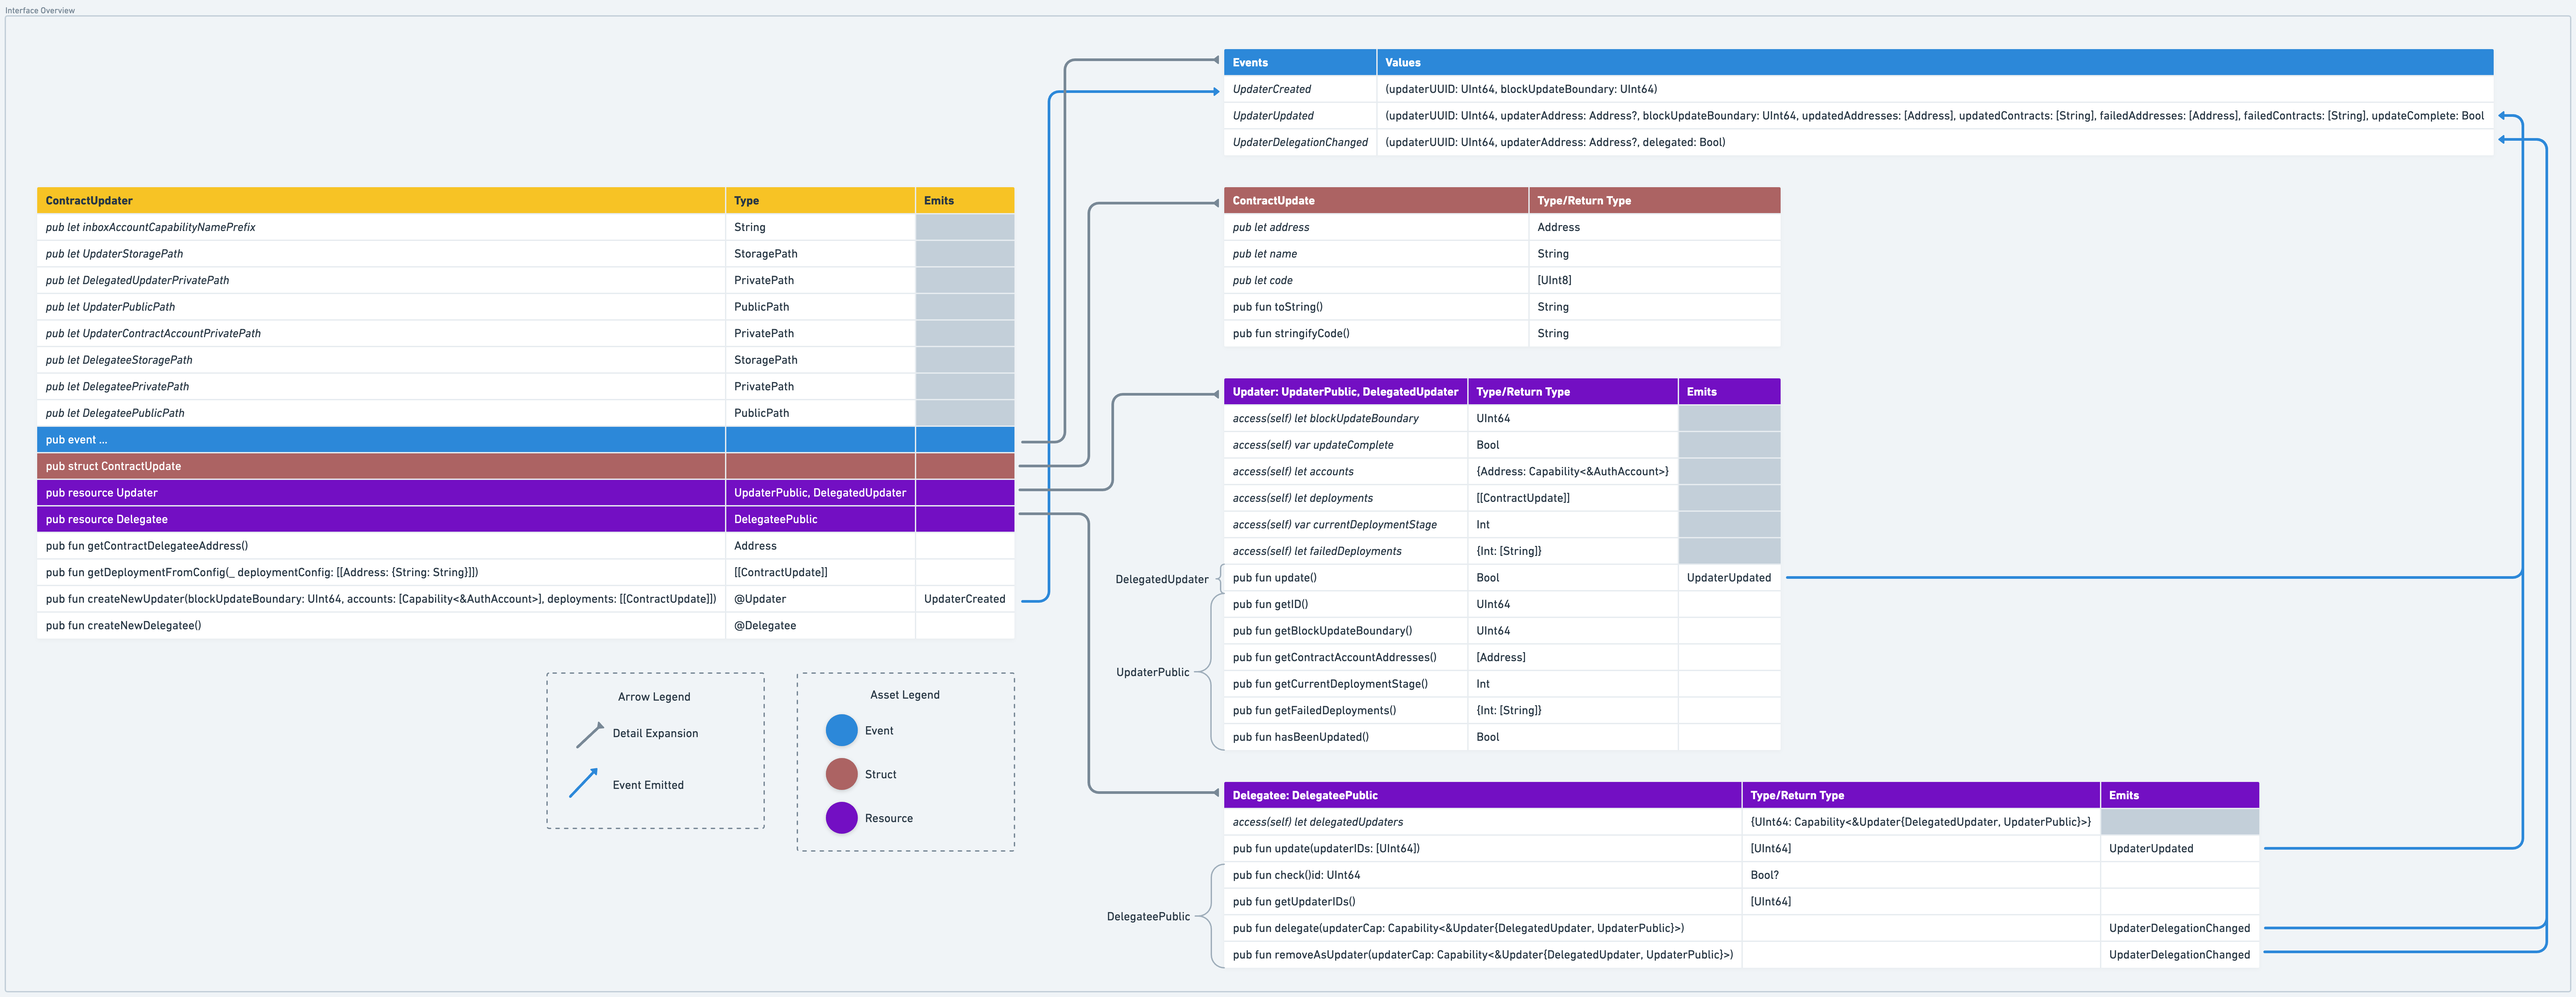
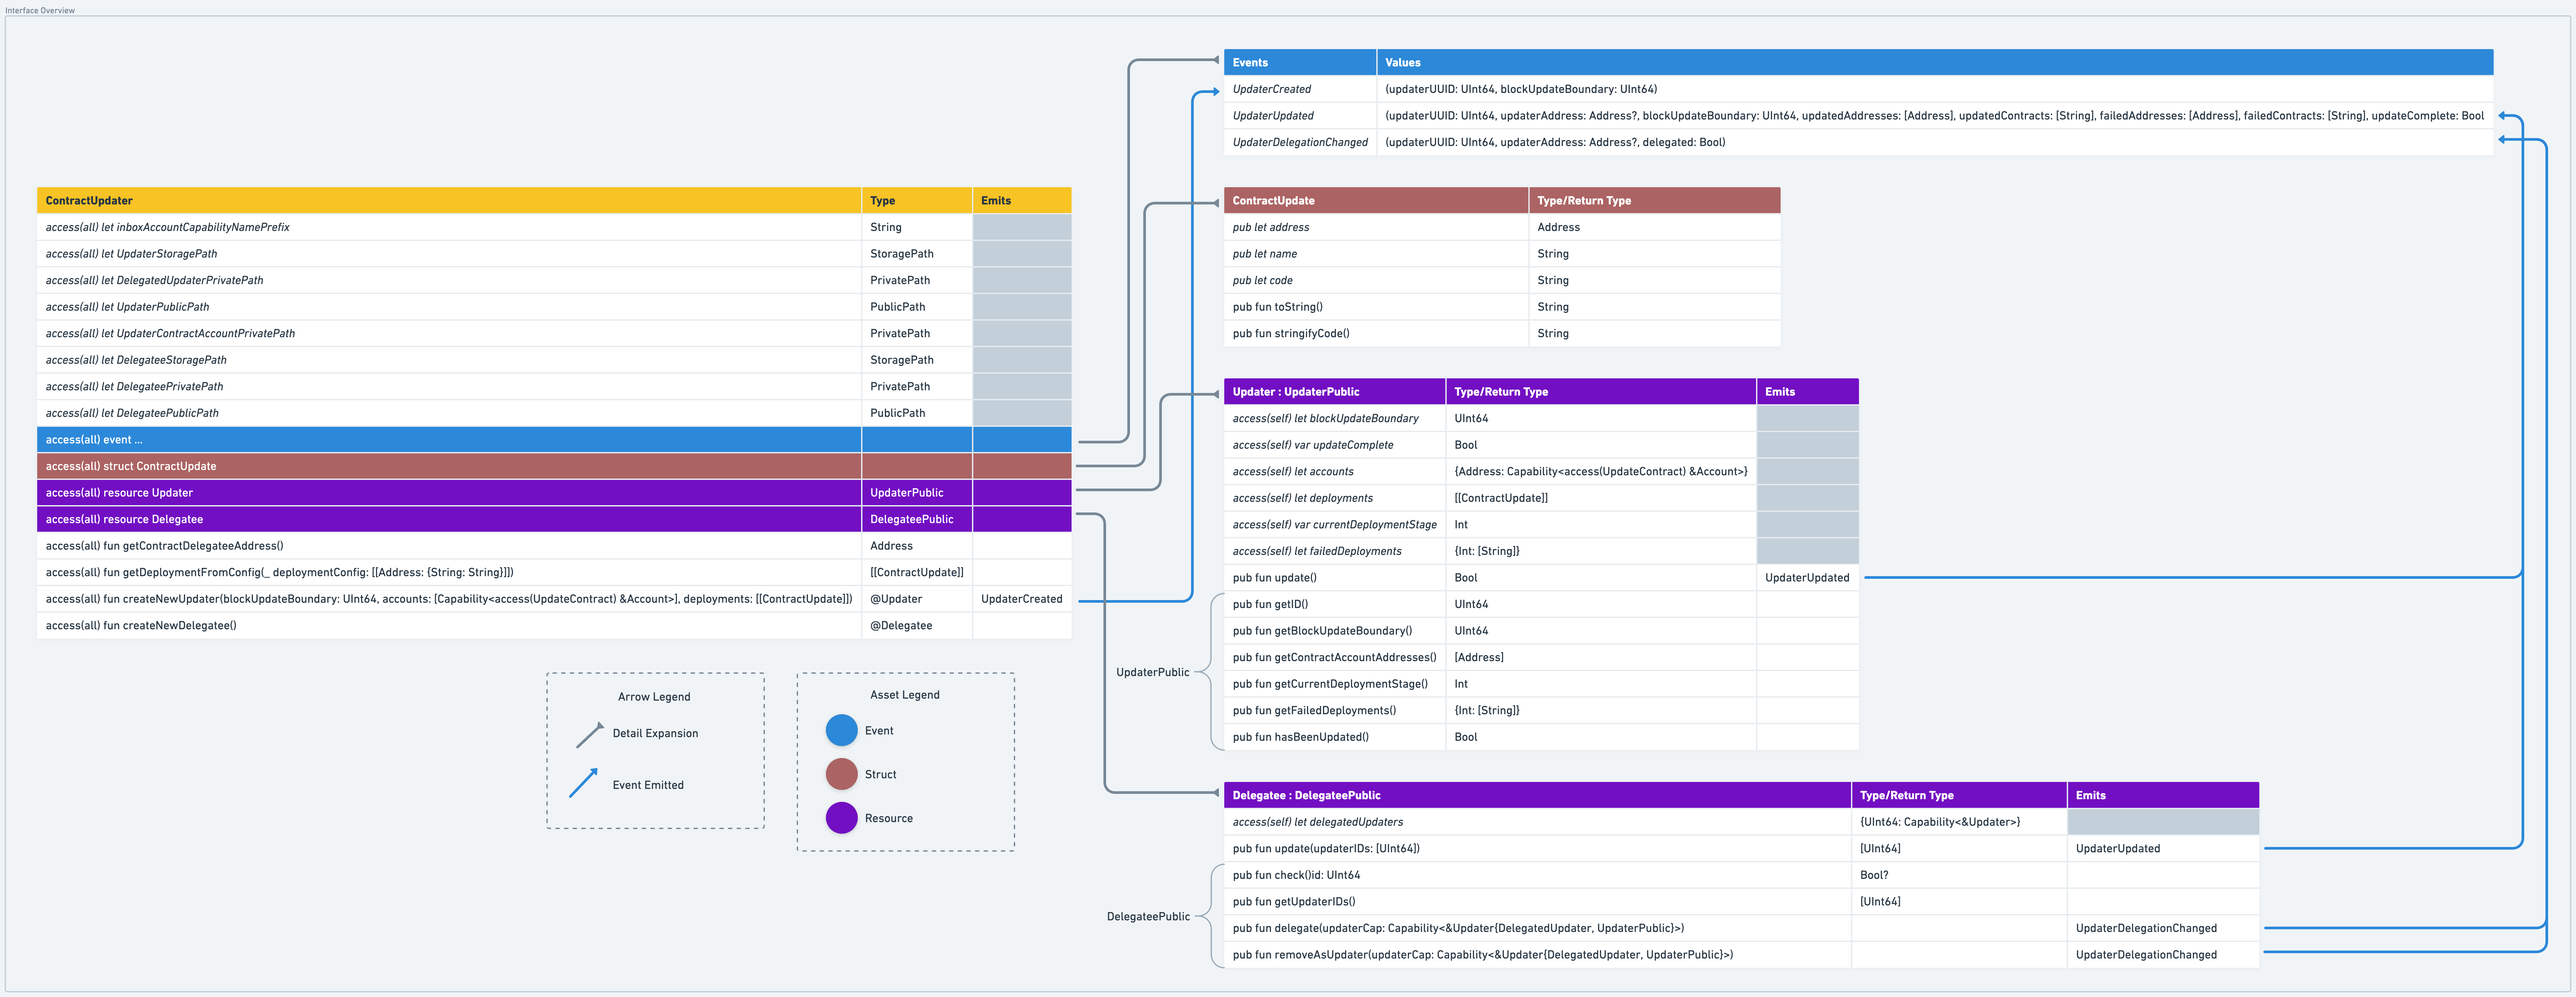
update 20230809-staged-contract-updates.md interfaces

diff --git a/application/20230809-staged-contract-updates.md b/application/20230809-staged-contract-updates.md
@@ -3,7 +3,7 @@ status: proposed
 flip: [179](https://github.com/onflow/flips/pull/179)
 authors: Giovanni Sanchez (giovanni.sanchez@dapperlabs.com)
 sponsor: Giovanni Sanchez (giovanni.sanchez@dapperlabs.com)
-updated: 2023-08-31
+updated: 2023-09-26
 ---
 
 # FLIP 179: Staged Contract Update Mechanism
@@ -104,12 +104,12 @@ below to view each component in more detail.*
 ```cadence
 /// Representative of a single contract, its name, code and where it will be deployed
 ///
-pub struct ContractUpdate {
-    pub let address: Address
-    pub let name: String
-    pub let code: String
-    pub fun toString(): String
-    pub fun stringifyCode(): String
+access(all) struct ContractUpdate {
+    access(all) let address: Address
+    access(all) let name: String
+    access(all) let code: String
+    access(all) fun toString(): String
+    access(all) fun codeAsCadence(): String
 }
 ```
 </details>
@@ -118,34 +118,28 @@ pub struct ContractUpdate {
 <summary>resource Updater</summary>
 
 ```cadence
-/// Private Capability enabling delegated updates
-///
-pub resource interface DelegatedUpdater {
-    pub fun update(): Bool
-}
-
 /// Public interface enabling queries about the Updater
 ///
-pub resource interface UpdaterPublic {
-    pub fun getID(): UInt64
-    pub fun getBlockUpdateBoundary(): UInt64
-    pub fun getContractAccountAddresses(): [Address]
-    pub fun getDeployments(): [[ContractUpdate]]
-    pub fun getCurrentDeploymentStage(): Int
-    pub fun getFailedDeployments(): {Int: [String]}
-    pub fun hasBeenUpdated(): Bool
+access(all) resource interface UpdaterPublic {
+    access(all) fun getID(): UInt64
+    access(all) fun getBlockUpdateBoundary(): UInt64
+    access(all) fun getContractAccountAddresses(): [Address]
+    access(all) fun getDeployments(): [[ContractUpdate]]
+    access(all) fun getCurrentDeploymentStage(): Int
+    access(all) fun getFailedDeployments(): {Int: [String]}
+    access(all) fun hasBeenUpdated(): Bool
 }
 
 /// Resource that enables delayed contract updates to wrapped accounts at or beyond a specified block height
 ///
-pub resource Updater : UpdaterPublic, DelegatedUpdater {
+access(all) resource Updater : UpdaterPublic {
     /// Update to occur at or beyond this block height
     // TODO: Consider making this a contract-owned value as it's reflective of the spork height
     access(self) let blockUpdateBoundary: UInt64
     /// Update status for each contract
     access(self) var updateComplete: Bool
     /// Capabilities for contract hosting accounts
-    access(self) let accounts: {Address: Capability<&AuthAccount>}
+    access(self) let accounts: {Address: Capability<auth(UpdateContract) &Account>}
     /// Updates ordered by their deployment sequence and staged by their dependency depth
     /// NOTE: Dev should be careful to validate their dependencies such that updates are performed from root
     /// to leaf dependencies
@@ -158,17 +152,17 @@ pub resource Updater : UpdaterPublic, DelegatedUpdater {
     /// Executes the next update stage for all contracts defined in deployment, returning true if all stages have
     /// been attempted and false if stages remain
     ///
-    pub fun update(): Bool
+    access(all) fun update(): Bool
 
     /* --- Public getters --- */
     //
-    pub fun getID(): UInt64
-    pub fun getBlockUpdateBoundary(): UInt64
-    pub fun getContractAccountAddresses(): [Address]
-    pub fun getDeployments(): [[ContractUpdate]]
-    pub fun getCurrentDeploymentStage(): Int
-    pub fun getFailedDeployments(): {Int: [String]}
-    pub fun hasBeenUpdated(): Bool
+    access(all) fun getID(): UInt64
+    access(all) fun getBlockUpdateBoundary(): UInt64
+    access(all) fun getContractAccountAddresses(): [Address]
+    access(all) fun getDeployments(): [[ContractUpdate]]
+    access(all) fun getCurrentDeploymentStage(): Int
+    access(all) fun getFailedDeployments(): {Int: [String]}
+    access(all) fun hasBeenUpdated(): Bool
 }
 ```
 </details>
@@ -180,39 +174,39 @@ pub resource Updater : UpdaterPublic, DelegatedUpdater {
 ```cadence
 /// Public interface for Delegatee
 ///
-pub resource interface DelegateePublic {
-    pub fun check(id: UInt64): Bool?
-    pub fun getUpdaterIDs(): [UInt64]
-    pub fun delegate(updaterCap: Capability<&Updater{DelegatedUpdater, UpdaterPublic}>)
-    pub fun removeAsUpdater(updaterCap: Capability<&Updater{DelegatedUpdater, UpdaterPublic}>)
+access(all) resource interface DelegateePublic {
+    access(all) fun check(id: UInt64): Bool?
+    access(all) fun getUpdaterIDs(): [UInt64]
+    access(all) fun delegate(updaterCap: Capability<&Updater>)
+    access(all) fun removeAsUpdater(updaterCap: Capability<&Updater>)
 }
 
 /// Resource that executed delegated updates
 ///
-pub resource Delegatee : DelegateePublic {
+access(all) resource Delegatee : DelegateePublic {
     // TODO: Block Height - All DelegatedUpdaters must be updated at or beyond this block height
     // access(self) let blockUpdateBoundary: UInt64
     /// Track all delegated updaters
-    access(self) let delegatedUpdaters: {UInt64: Capability<&Updater{DelegatedUpdater, UpdaterPublic}>}
+    access(self) let delegatedUpdaters: {UInt64: Capability<&Updater>}
 
     /// Checks if the specified DelegatedUpdater Capability is contained and valid
     ///
-    pub fun check(id: UInt64): Bool?
+    access(all) fun check(id: UInt64): Bool?
     /// Returns the IDs of the delegated updaters 
     ///
-    pub fun getUpdaterIDs(): [UInt64]
+    access(all) fun getUpdaterIDs(): [UInt64]
     /// Allows for the delegation of updates to a contract
     ///
-    pub fun delegate(updaterCap: Capability<&Updater{DelegatedUpdater, UpdaterPublic}>)
+    access(all) fun delegate(updaterCap: Capability<&Updater>)
     /// Enables Updaters to remove their delegation
     ///
-    pub fun removeAsUpdater(updaterCap: Capability<&Updater{DelegatedUpdater, UpdaterPublic}>)
+    access(all) fun removeAsUpdater(updaterCap: Capability<&Updater>)
     /// Executes update on the specified Updater, removing the Capability once update is completed
     ///
-    pub fun update(updaterIDs: [UInt64]): [UInt64]
+    access(all) fun update(updaterIDs: [UInt64]): [UInt64]
     /// Enables admin removal of a DelegatedUpdater Capability
     ///
-    pub fun removeDelegatedUpdater(id: UInt64)
+    access(all) fun removeDelegatedUpdater(id: UInt64)
 }
 ```
 </details>
@@ -222,8 +216,8 @@ pub resource Delegatee : DelegateePublic {
 <summary>Events</summary>
 
 ```cadence
-pub event UpdaterCreated(updaterUUID: UInt64, blockUpdateBoundary: UInt64)
-pub event UpdaterUpdated(
+access(all) event UpdaterCreated(updaterUUID: UInt64, blockUpdateBoundary: UInt64)
+access(all) event UpdaterUpdated(
     updaterUUID: UInt64,
     updaterAddress: Address?,
     blockUpdateBoundary: UInt64,
@@ -233,7 +227,7 @@ pub event UpdaterUpdated(
     failedContracts: [String],
     updateComplete: Bool
 )
-pub event UpdaterDelegationChanged(updaterUUID: UInt64, updaterAddress: Address?, delegated: Bool)
+access(all) event UpdaterDelegationChanged(updaterUUID: UInt64, updaterAddress: Address?, delegated: Bool)
 ```
 </details>
 
@@ -243,7 +237,7 @@ pub event UpdaterDelegationChanged(updaterUUID: UInt64, updaterAddress: Address?
 ```cadence
 /// Returns the Address of the Delegatee associated with this contract
 ///
-pub fun getContractDelegateeAddress(): Address
+access(all) fun getContractDelegateeAddress(): Address
 
 /// Helper method that returns the ordered array reflecting sequenced and staged deployments, with each contract
 /// update represented by a ContractUpdate struct.
@@ -252,24 +246,27 @@ pub fun getContractDelegateeAddress(): Address
 /// deployment and the order of the deployments themselves. Each entry in the inner array must be exactly one
 /// key-value pair, where the key is the address of the associated contract name and code.
 ///
-pub fun getDeploymentFromConfig(_ deploymentConfig: [[{Address: {String: String}}]]): [[ContractUpdate]]
+access(all) fun getDeploymentFromConfig(_ deploymentConfig: [[{Address: {String: String}}]]): [[ContractUpdate]]
 
 /// Returns a new Updater resource
 ///
-pub fun createNewUpdater(
+access(all) fun createNewUpdater(
     blockUpdateBoundary: UInt64,
-    accounts: [Capability<&AuthAccount>],
+    accounts: [Capability<auth(UpdateContract) &Account>],
     deployments: [[ContractUpdate]]
 ): @Updater
 
 /// Creates a new Delegatee resource enabling caller to self-host their Delegatee
 ///
-pub fun createNewDelegatee(): @Delegatee
+access(all) fun createNewDelegatee(): @Delegatee
 ```
 </details>
 
 
 #### Note on Update API
+
+> :information_source: The update API discussed below has been implemented - see PR:
+> [onflow/cadence#2769](https://github.com/onflow/cadence/pull/2769)
 
 Currently, [updating a contract](https://developers.flow.com/cadence/language/contracts#updating-a-deployed-contract)
 occurs via the API `Contracts.update__experimental(name: String, code: [UInt8]): DeployedContract` which reverts when an
@@ -286,24 +283,24 @@ The proposed `tryUpdate()` API is its own issue (found [here](https://github.com
 included below for context and consideration:
 
 ```cadence
-pub enum ErrorType: UInt8 {
-  pub case CONTRACT_NOT_FOUND
-  pub case MULTIPLE_CONTRACTS_DECLARED
-  pub case MISMATCHED_NAME
-  pub case UNDEFINED
+access(all) enum ErrorType: UInt8 {
+  access(all) case CONTRACT_NOT_FOUND
+  access(all) case MULTIPLE_CONTRACTS_DECLARED
+  access(all) case MISMATCHED_NAME
+  access(all) case UNDEFINED
 }
 
-pub struct DeploymentError {
-  pub let errorType: ErrorType
-  pub let errorMessage: String
+access(all) struct DeploymentError {
+  access(all) let errorType: ErrorType
+  access(all) let errorMessage: String
 }
 
-pub struct DeploymentResult {
-  pub let success: Bool
-  pub let errorMessage: DeploymentError?
+access(all) struct DeploymentResult {
+  access(all) let success: Bool
+  access(all) let errorMessage: DeploymentError?
 }
 
-pub fun tryUpdate(name: String, code: [UInt8]): DeploymentResult
+access(all) fun tryUpdate(name: String, code: [UInt8]): DeploymentResult
 ```
 
 Ideally this method would return some error message in the event of a failed update; however,
@@ -314,8 +311,8 @@ The proposed path forward then is to return the following `DeploymentResult`, la
 security implication has been mitigated:
 
 ```cadence
-pub struct DeploymentResult {
-  pub let success: Bool
+access(all) struct DeploymentResult {
+  access(all) let success: Bool
 }
 ```
 
